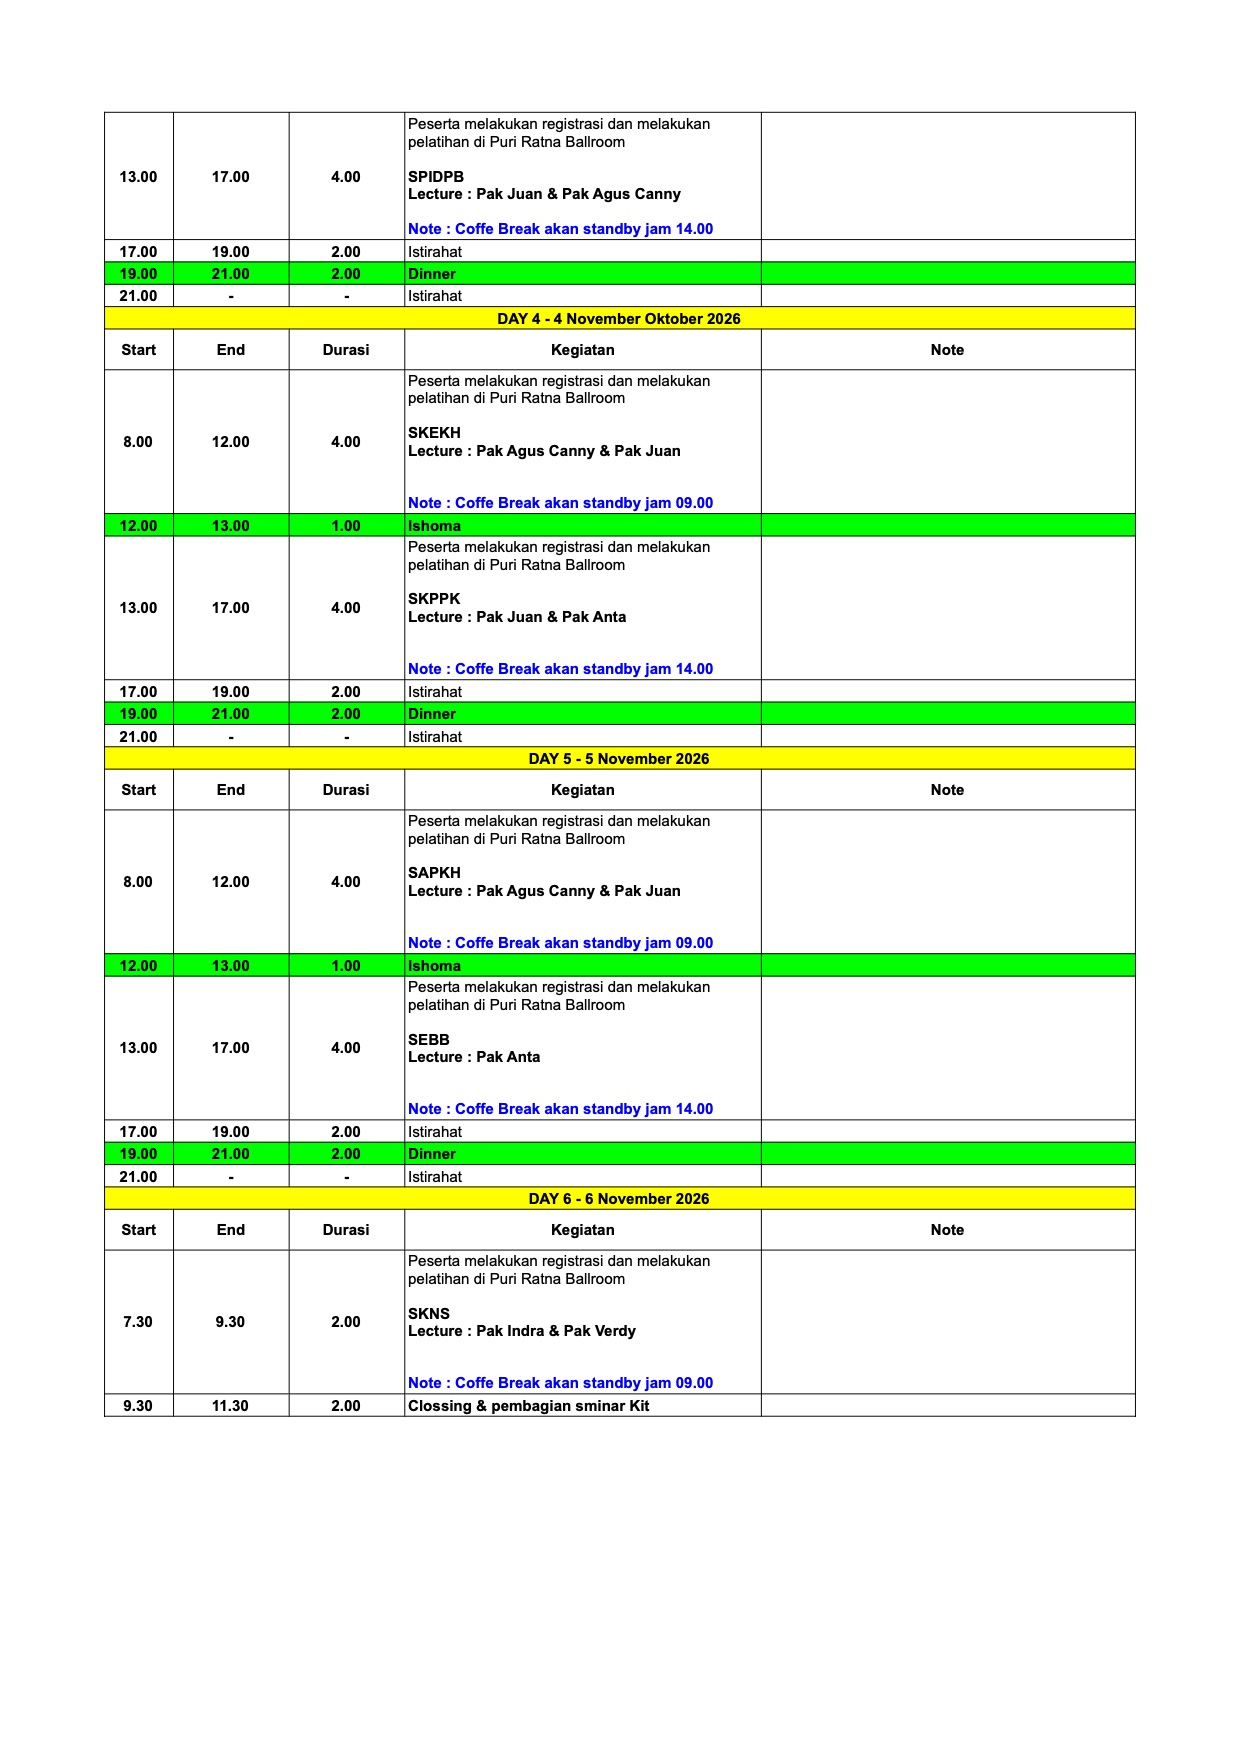
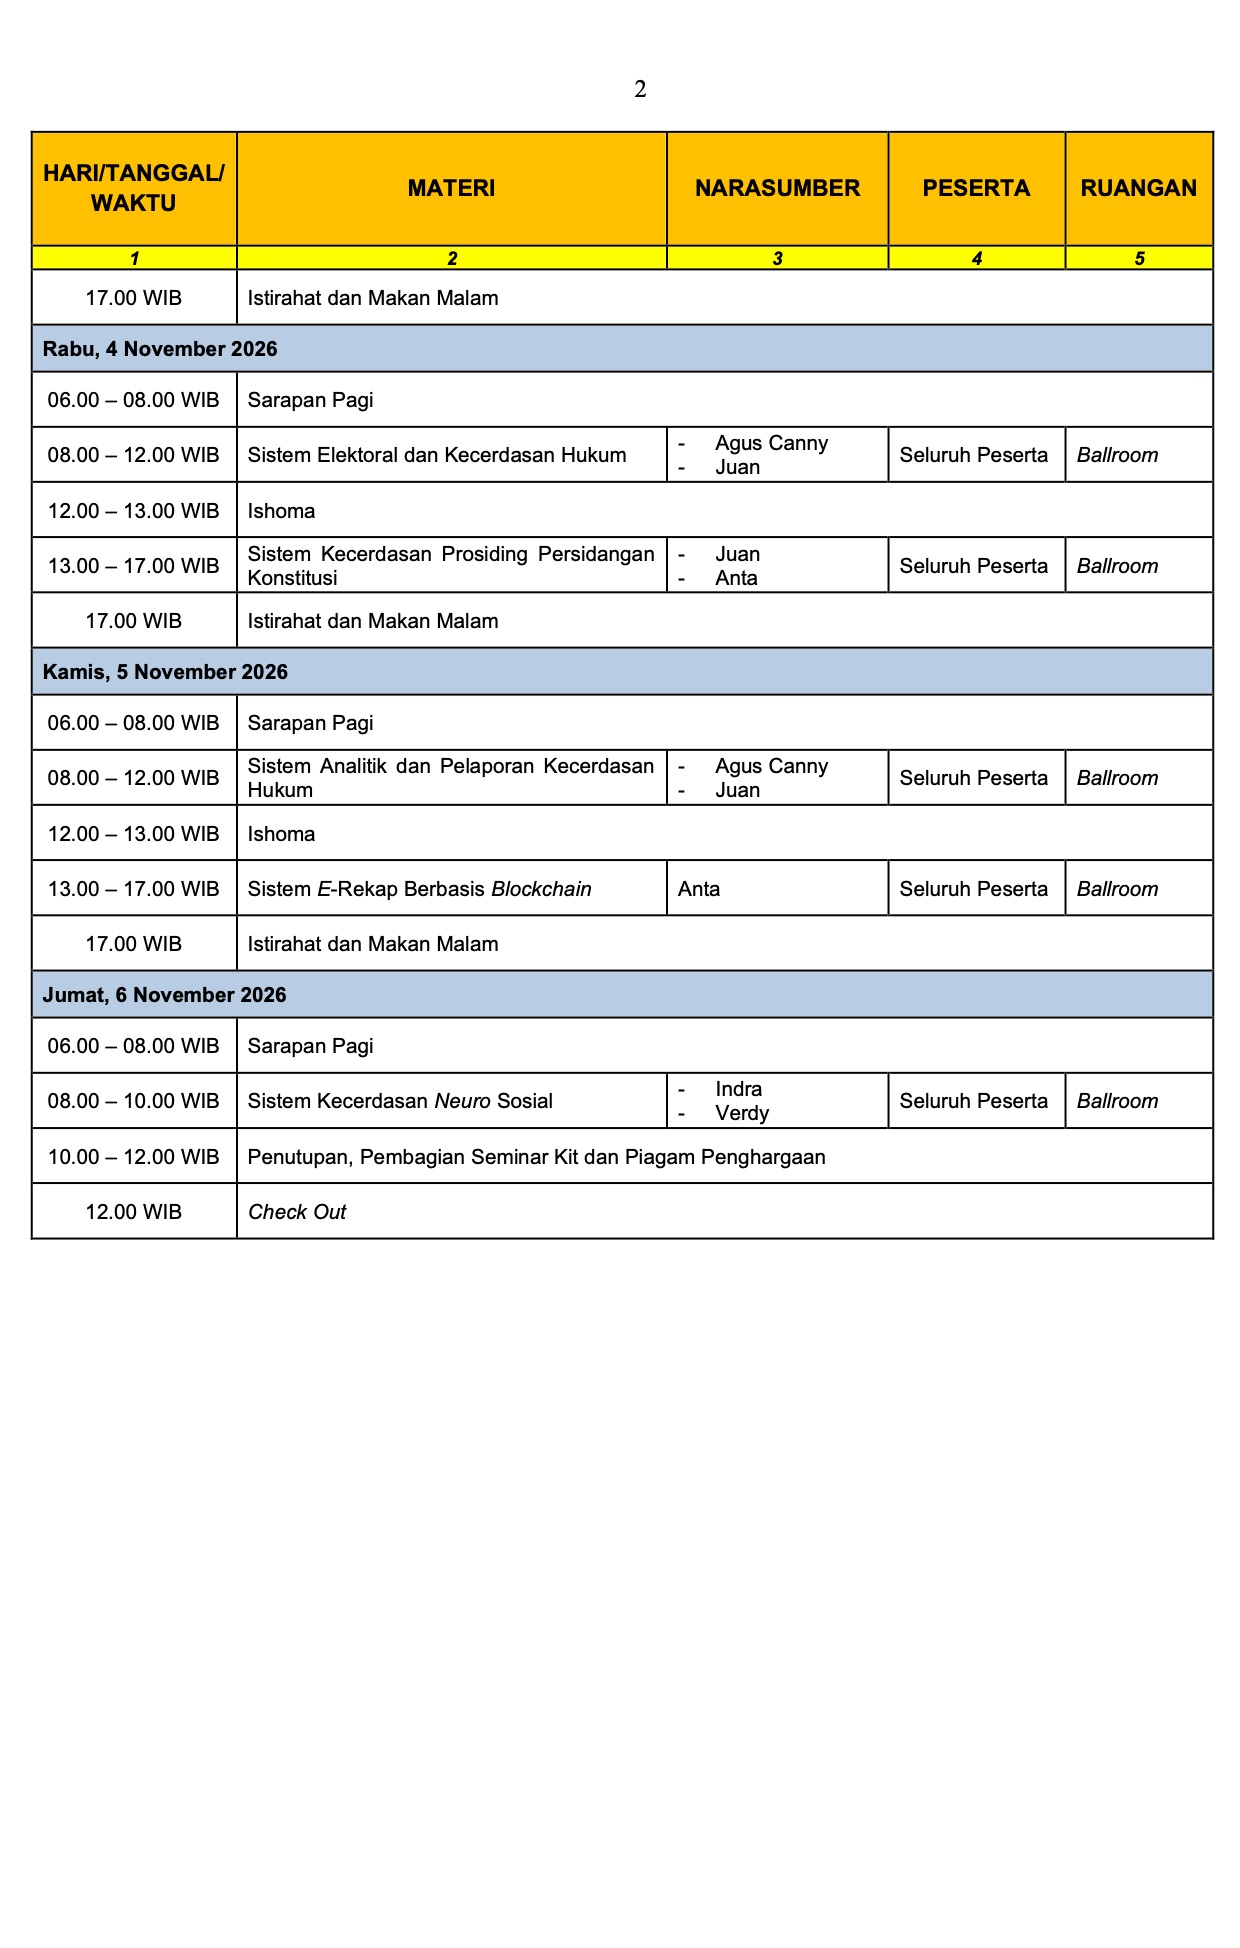
feat: add auto check out, add new session per day

Changed region(s): [[0.0, 0.0615, 0.9806, 0.8308], [0.0919, 0.8, 0.1226, 0.8308]]

diff --git a/tests/e2e/checkout.spec.ts b/tests/e2e/checkout.spec.ts
@@ -69,11 +69,24 @@ test("the slideshow does not open again for an attendee returning to check out",
 test("an unknown check-out code is explained and can be removed from the phone", async ({ page }) => {
   await installSupabaseStub(page);
   await page.addInitScript(() =>
-    localStorage.setItem("guestbook.checkouts", JSON.stringify([{ token: "unknown-code", name: "Budi Santoso", at: "2026-10-26T03:05:00Z" }])),
+    localStorage.setItem("guestbook.checkouts", JSON.stringify([{ token: "unknown-code", name: "Budi Santoso", at: new Date().toISOString() }])),
   );
   await page.goto("/");
   await page.getByRole("button", { name: "Check out sekarang", exact: true }).click();
   await expect(page.getByRole("alert")).toContainText("Kode check-out tidak dikenal");
   await page.getByRole("button", { name: "Hapus dari HP ini", exact: true }).click();
   await expect(page.getByLabel("Nama", { exact: true })).toBeVisible();
+});
+
+test("a check-in from an earlier day is forgotten: the next day starts on the form", async ({ page }) => {
+  await installSupabaseStub(page);
+  await page.addInitScript(() =>
+    localStorage.setItem(
+      "guestbook.checkouts",
+      JSON.stringify([{ token: "kemarin", name: "Budi Santoso", at: new Date(Date.now() - 36 * 3600 * 1000).toISOString() }]),
+    ),
+  );
+  await page.goto("/");
+  await expect(page.getByLabel("Nama", { exact: true })).toBeVisible();
+  await expect(page.getByRole("heading", { name: "Anda sudah check-in" })).toHaveCount(0);
 });

diff --git a/src/services/checkout.ts b/src/services/checkout.ts
@@ -1,14 +1,19 @@
+import { formatWib } from "../domain/time";
 import { callFunction } from "./rest";
 
 // Check-ins made on this phone, so the attendee can check out with one tap later.
 const KEY = "guestbook.checkouts";
 export type StoredCheckIn = { token: string; name: string; at: string };
 
+// Today's only (WIB date): the database checks everyone out at the end of each day, so the phone
+// starts the next day on the form.
+const sameDay = (at: string) => formatWib(at).slice(0, 10) === formatWib(new Date().toISOString()).slice(0, 10);
+
 export function storedCheckIns(): StoredCheckIn[] {
   try {
     const value = JSON.parse(localStorage.getItem(KEY) || "[]");
     return Array.isArray(value)
-      ? value.filter((entry) => typeof entry?.token === "string" && typeof entry?.name === "string" && typeof entry?.at === "string")
+      ? value.filter((entry) => typeof entry?.token === "string" && typeof entry?.name === "string" && typeof entry?.at === "string" && sameDay(entry.at))
       : [];
   } catch {
     return [];

diff --git a/tests/e2e/event-guide.spec.ts b/tests/e2e/event-guide.spec.ts
@@ -138,7 +138,7 @@ test("an admin uploads the rundown, a speaker's CV and profile picture, and a ma
   expect(saved.speakers.map((s) => s.name).slice(-2)).toEqual(["Budi Narasumber", "Karen Grace Sutoto"]);
 
   await page.evaluate(() =>
-    localStorage.setItem("guestbook.checkouts", JSON.stringify([{ token: "kode-1", name: "Budi Santoso", at: "2026-11-02T03:05:00Z" }])),
+    localStorage.setItem("guestbook.checkouts", JSON.stringify([{ token: "kode-1", name: "Budi Santoso", at: new Date().toISOString() }])),
   );
   await page.goto("/");
   const guide = page.getByRole("region", { name: "Panduan acara" });

diff --git a/src/services/eventInfo.ts b/src/services/eventInfo.ts
@@ -18,7 +18,7 @@ const speaker = (name: string, prefix: string, count: number, height: number, pr
 // Shown until an admin saves Info acara, and what "Pakai data contoh" restores. The files are in public/.
 export const BUILT_IN_CONTENT: EventContent = {
   mentimeter_url: "https://www.menti.com/",
-  rundown: pages("/rundown/rundown", 2, 1755),
+  rundown: pages("/rundown/rundown", 2, 1948),
   speakers: [
     speaker("Dr. Agus Canny", "/narasumber/agus-canny", 9, 1605, [820, 310]),
     speaker("Muhammad Juan Al Qausar", "/narasumber/muhammad-juan-al-qausar", 7, 1605, [960, 590]),

diff --git a/README.md b/README.md
@@ -33,7 +33,7 @@ npm run weight     # public page weight gate (needs the dist/ build)
 
 ## Supabase setup
 
-The app uses the `guestbook_` tables, RPCs and buckets created by `supabase/migrations/20261026000000_guestbook.sql` `20261026120000_guestbook_optional_jabatan.sql` (Jabatan is no longer collected; the column became optional and existing values are kept) `20261026180000_guestbook_automatic_checkin.sql` (visit dates are no longer asked for; check-in rows get today's Jakarta date) `20261026200000_guestbook_checkout.sql` (check-out time, the hashed check-out code, and the attendee and admin check-out functions) and `20261028000000_guestbook_room_number_optional_address.sql` (the optional hotel room number, and the address becomes optional because the form no longer asks for an address or map pin; until it is applied, check-ins still work, without the room number and with `-` as the address) and `20261029000000_guestbook_divisi.sql` (the division; required on the form, optional in the database so older clients keep working; until it is applied, check-ins go through without the division or room number) and `20261030000000_guestbook_event_content.sql` (the `event_content` column and the public `guestbook-event` bucket for *Info acara*; until it is applied, attendees see the built-in rundown and CVs and saving in *Info acara* says which migration to run) and `20261031000000_guestbook_form_fields.sql` (the `form_fields` setting, the `answers` column and `p_answers` on the check-in RPC; until it is applied the form shows Divisi, saving in *Formulir* says to run the migration, and check-ins go through without answers) and `20261101000000_guestbook_repeat_checkin.sql` (`last_checked_in_at` and `checkin_count`; a repeat check-in is welcomed and recorded on the person's row instead of reported as a duplicate; until it is applied, a repeat check-in is welcomed but not recorded) and `20261102000000_guestbook_repeat_checkout_code.sql` (a repeat check-in with the stored name gets a new check-out code; until it is applied, that visit cannot be checked out from the phone) and `20261103000000_guestbook_sheet_sync.sql` (copies check-ins to a Google Sheet once it is set up, see *Google Sheet*; until then it sends nothing) in the linked project `dzzufvejzbhgwiemcxwz`. Migrations are additive; never run `db reset --linked`. Apply pending migrations before deploying a client that depends on them.
+The app uses the `guestbook_` tables, RPCs and buckets created by `supabase/migrations/20261026000000_guestbook.sql` `20261026120000_guestbook_optional_jabatan.sql` (Jabatan is no longer collected; the column became optional and existing values are kept) `20261026180000_guestbook_automatic_checkin.sql` (visit dates are no longer asked for; check-in rows get today's Jakarta date) `20261026200000_guestbook_checkout.sql` (check-out time, the hashed check-out code, and the attendee and admin check-out functions) and `20261028000000_guestbook_room_number_optional_address.sql` (the optional hotel room number, and the address becomes optional because the form no longer asks for an address or map pin; until it is applied, check-ins still work, without the room number and with `-` as the address) and `20261029000000_guestbook_divisi.sql` (the division; required on the form, optional in the database so older clients keep working; until it is applied, check-ins go through without the division or room number) and `20261030000000_guestbook_event_content.sql` (the `event_content` column and the public `guestbook-event` bucket for *Info acara*; until it is applied, attendees see the built-in rundown and CVs and saving in *Info acara* says which migration to run) and `20261031000000_guestbook_form_fields.sql` (the `form_fields` setting, the `answers` column and `p_answers` on the check-in RPC; until it is applied the form shows Divisi, saving in *Formulir* says to run the migration, and check-ins go through without answers) and `20261101000000_guestbook_repeat_checkin.sql` (`last_checked_in_at` and `checkin_count`; a repeat check-in is welcomed and recorded on the person's row instead of reported as a duplicate; until it is applied, a repeat check-in is welcomed but not recorded) and `20261102000000_guestbook_repeat_checkout_code.sql` (a repeat check-in with the stored name gets a new check-out code; until it is applied, that visit cannot be checked out from the phone) and `20261103000000_guestbook_sheet_sync.sql` (copies check-ins to a Google Sheet once it is set up, see *Google Sheet*; until then it sends nothing) and `20261104000000_guestbook_auto_checkout.sql` (a pg_cron job checks out everyone still checked in at 23:59 WIB every day; phones also forget check-ins from an earlier day, so each day starts on the form) in the linked project `dzzufvejzbhgwiemcxwz`. Migrations are additive; never run `db reset --linked`. Apply pending migrations before deploying a client that depends on them.
 
 ```sh
 set -a; . ./supabase/.env.cli.local; set +a   # exports SUPABASE_DB_PASSWORD for the CLI without printing it
@@ -109,7 +109,7 @@ Every check-in can be copied to a Google Spreadsheet within a few seconds: one r
    select private.guestbook_sheet_resend();
    ```
 
-The rows appear in a `Check-in` tab. If they do not, `select status_code, error_msg, created from net._http_response order by created desc limit 5;` shows the latest sends (302 is normal: Apps Script answers with a redirect after writing). `select private.guestbook_sheet_resend();` sends everything again at any time, and rows already in the sheet are updated rather than repeated. `delete from private.guestbook_sheet;` stops the copying. After changing the script, publish it with *Deploy → Manage deployments → Edit → New version* so the URL stays the same. Anyone the spreadsheet is shared with sees attendees' names, phone numbers and e-mails.
+The rows appear in a `Check-in` tab (everyone, one row per person) and in a tab per session of each day, such as `02-11-2026 Sesi 2 Siang`, created when the session's first check-in arrives: someone who comes to several sessions is in each of their tabs, and a check-out or prize updates the row in the tab of their latest check-in. The sessions follow the rundown (`SCHEDULE` at the top of the script): registration on 1 November; Pagi, Siang from 12:00 and Malam from 17:00 on 2 November; Pagi and Siang from 12:00 on 3–5 November; Pagi only on 6 November. A check-in during a break counts for the session after it. If they do not, `select status_code, error_msg, created from net._http_response order by created desc limit 5;` shows the latest sends (302 is normal: Apps Script answers with a redirect after writing). `select private.guestbook_sheet_resend();` sends everything again at any time, and rows already in the sheet are updated rather than repeated. `delete from private.guestbook_sheet;` stops the copying. After changing the script, publish it with *Deploy → Manage deployments → Edit → New version* so the URL stays the same. Anyone the spreadsheet is shared with sees attendees' names, phone numbers and e-mails.
 
 ## Demo data
 
